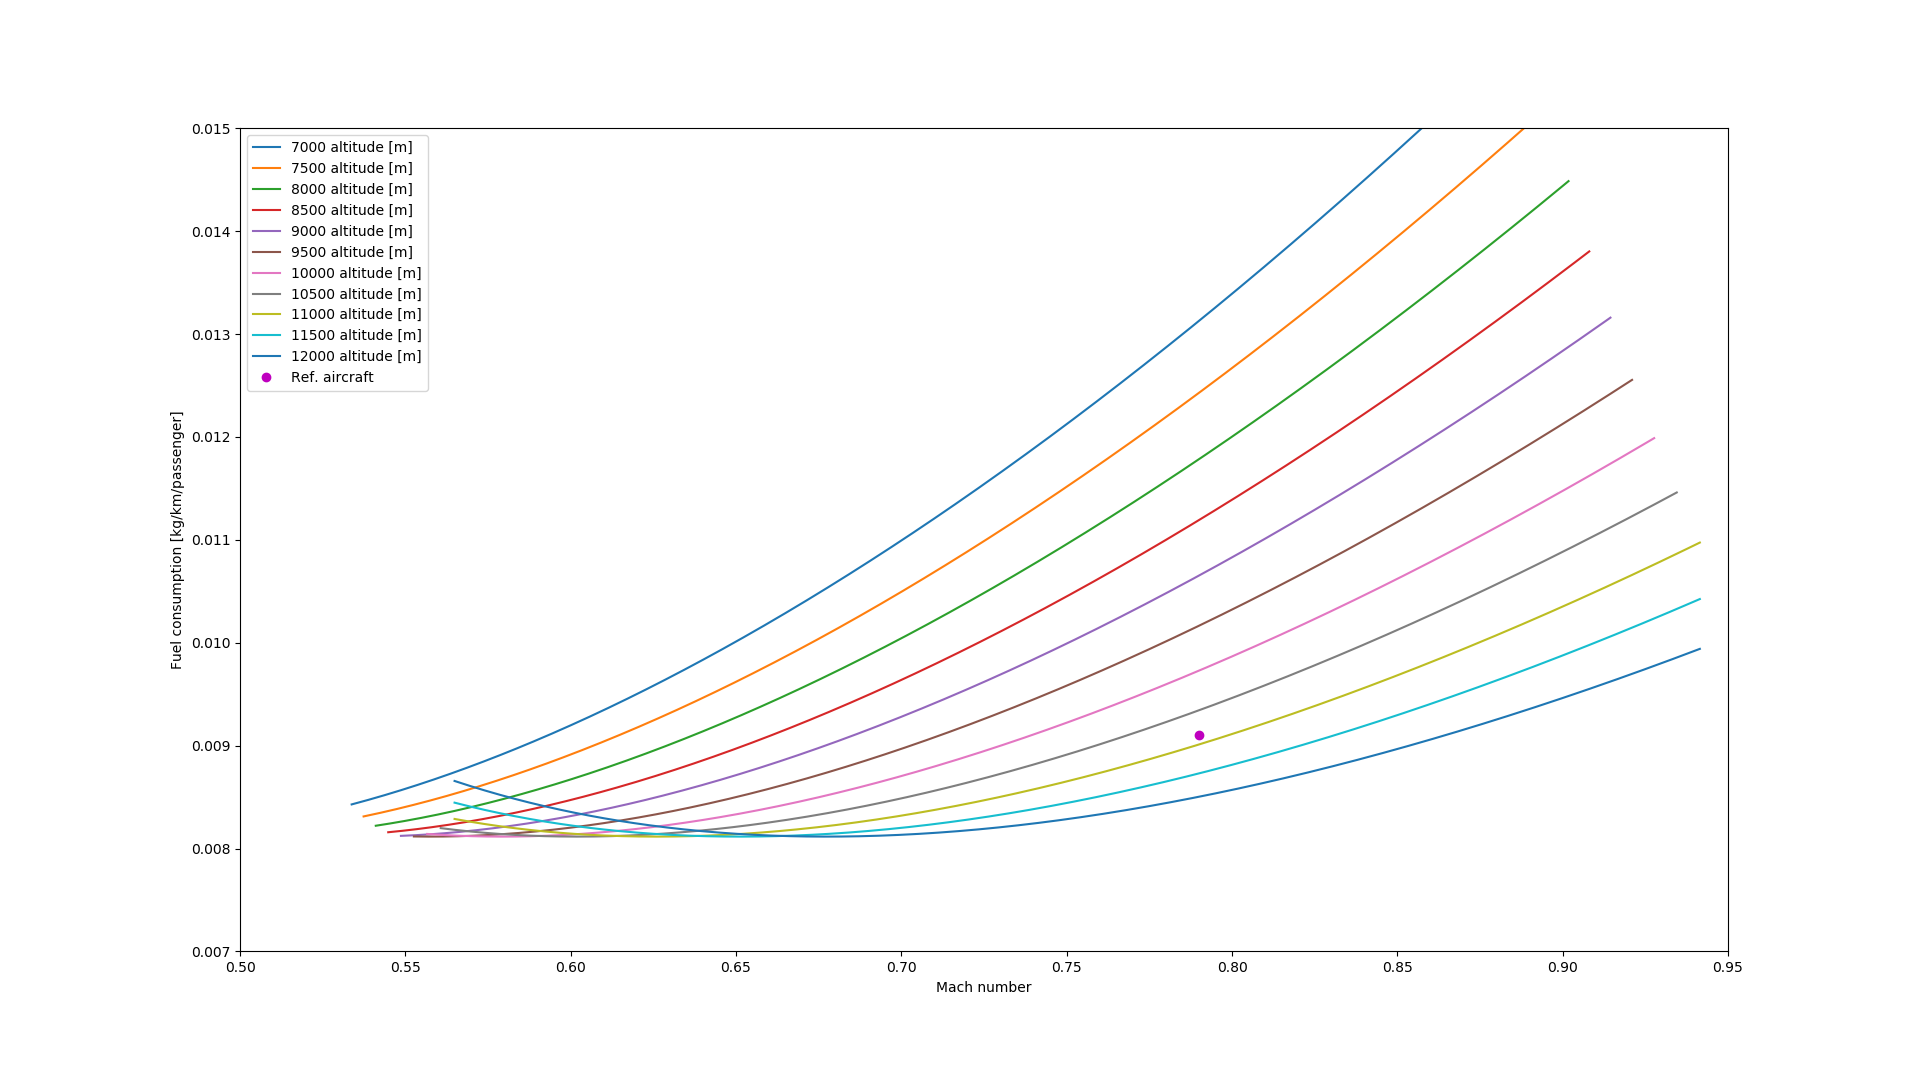
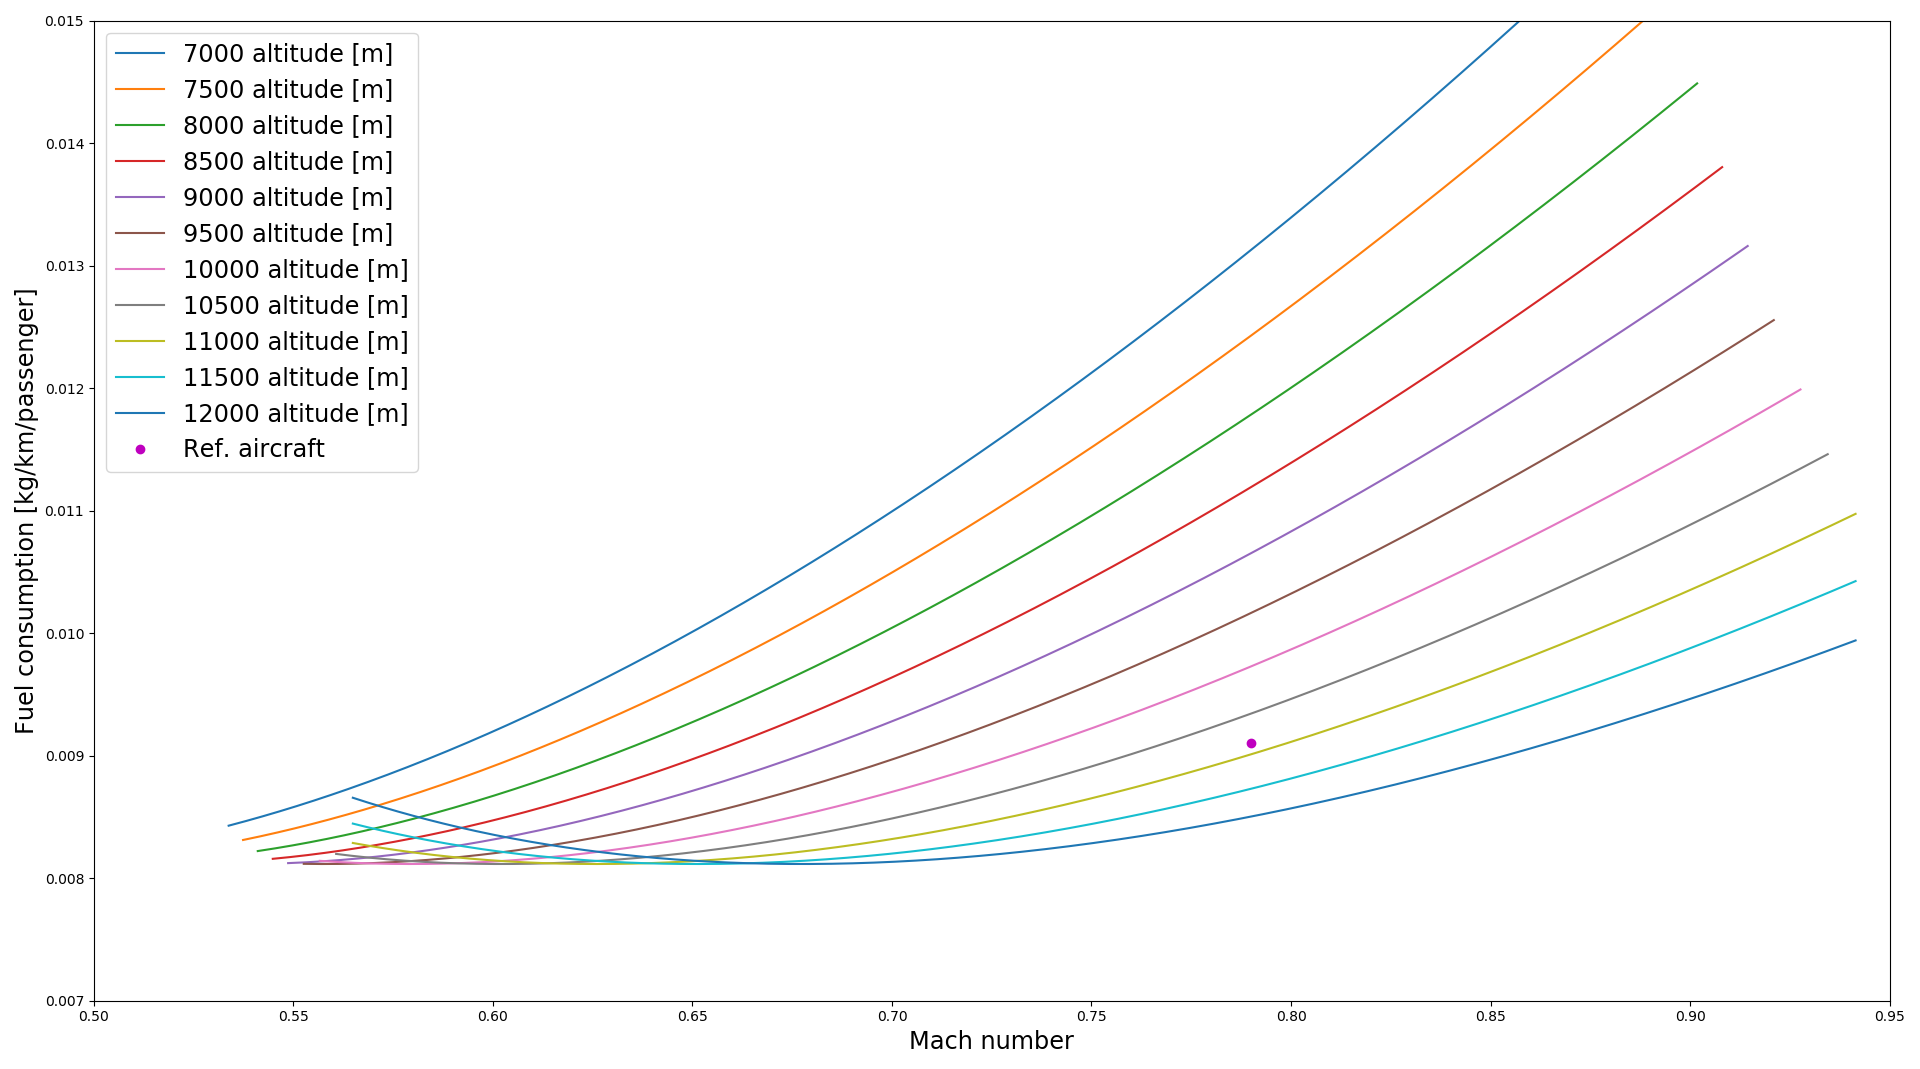
pics

diff --git a/performance/Standard_air_range_fuel.py b/performance/Standard_air_range_fuel.py
@@ -205,14 +205,15 @@ for h in H:
     #plt.subplot(122)
     plt.plot(V,SAR_list,label='%s altitude [m]' % h)
     #plt.title('Fuel consumption per passenger w.r.t. Mach number')
-    plt.xlabel("Mach number")
-    plt.ylabel("Fuel consumption [kg/km/passenger]")
+
+plt.xlabel("Mach number",fontsize = 'xx-large')
+plt.ylabel("Fuel consumption [kg/km/passenger]",fontsize = 'xx-large')
 
 plt.plot(Mcr,SAR_ref_point/pax_ref,"mo", label = "Ref. aircraft")   
 #plt.hlines(0.9*SAR_ref_point/pax_ref,0.5,1.,"gray",'--') 
 plt.xlim(0.5,0.95)
 plt.ylim(0.007,0.015)
-plt.legend(loc = "upper left")
+plt.legend(loc = "upper left", fontsize = 'xx-large')
 
 plt.show()
 
